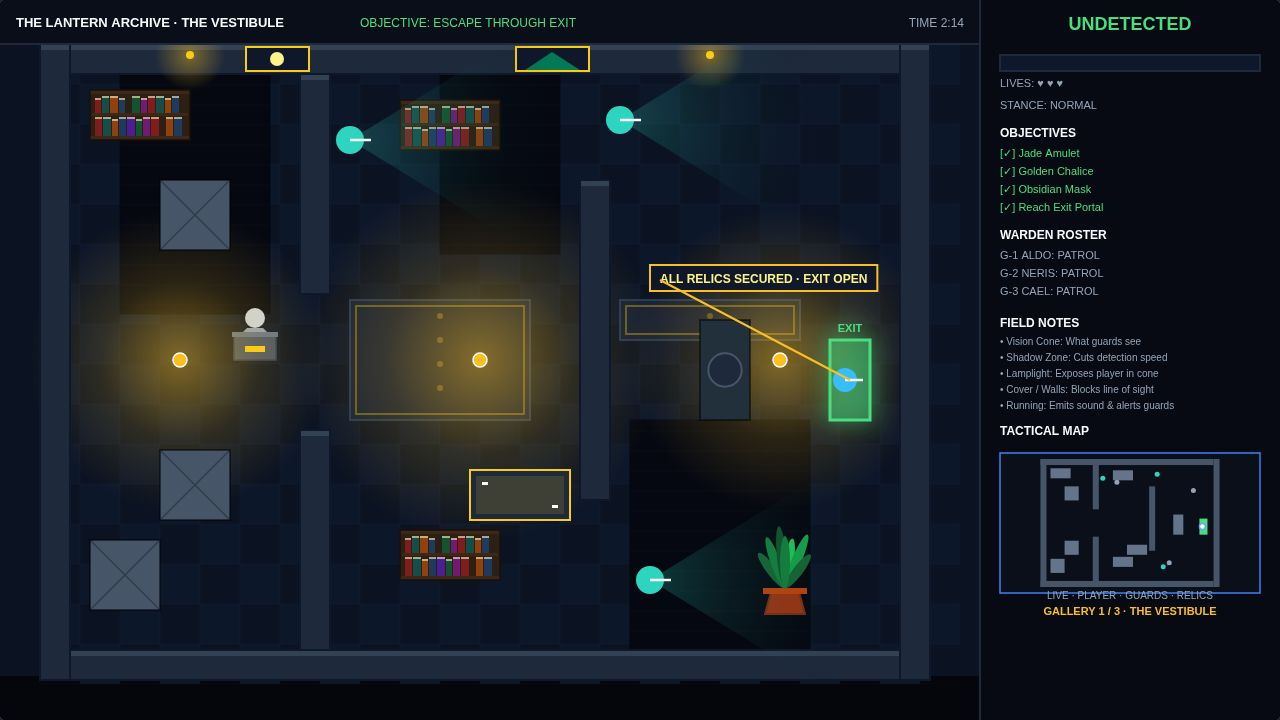
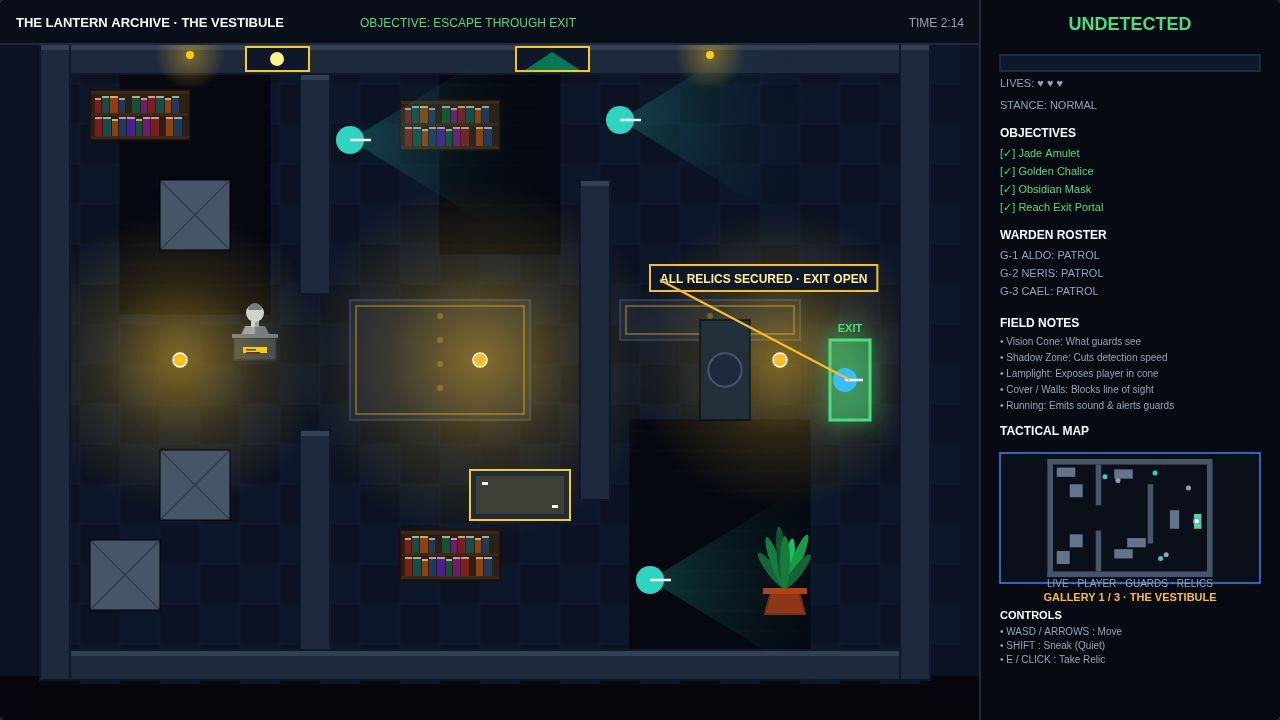
Round 6 visual fix: readable neoclassical bust statue, CONTROLS block fills side-panel bottom

Changed region(s): [[0.7812, 0.6417, 1.0, 0.9167], [0.1875, 0.4278, 0.2188, 0.5194]]

diff --git a/game/src/render.js b/game/src/render.js
@@ -98,46 +98,80 @@ export class Renderer {
       }
     });
     
-    // Decor / Museum Props (Enlarged Potted Plants & Statue Pedestal)
+    // Decor / Museum Props (Enlarged Potted Plants & Refined Neoclassical Bust Statue)
     if (lvl.decor) {
       lvl.decor.forEach(d => {
         this.ctx.save();
         if (d.type === 'statue') {
-          // Statue on a pedestal (Job 4)
+          // Refined Neoclassical Bust Statue on Pedestal (Ronde 6)
           const px = d.x + d.w / 2;
           const py = d.y + d.h;
           
-          // Plinth base
-          this.ctx.fillStyle = '#475569';
-          this.ctx.fillRect(d.x + 4, py - 24, d.w - 8, 24);
-          this.ctx.strokeStyle = '#334155';
+          // Pedestal base block
+          this.ctx.fillStyle = '#334155';
+          this.ctx.fillRect(d.x + 4, py - 22, d.w - 8, 22);
+          this.ctx.strokeStyle = '#1e293b';
           this.ctx.lineWidth = 1.5;
-          this.ctx.strokeRect(d.x + 4, py - 24, d.w - 8, 24);
+          this.ctx.strokeRect(d.x + 4, py - 22, d.w - 8, 22);
           
-          // Plinth cap
+          // Pedestal cap molding
           this.ctx.fillStyle = '#64748b';
-          this.ctx.fillRect(d.x + 2, py - 28, d.w - 4, 5);
+          this.ctx.fillRect(d.x + 2, py - 26, d.w - 4, 4);
           
-          // Gold plaque
+          // Gold identification plaque with engraved text lines
           this.ctx.fillStyle = '#facc15';
-          this.ctx.fillRect(px - 10, py - 14, 20, 6);
+          this.ctx.fillRect(px - 12, py - 13, 24, 6);
+          this.ctx.fillStyle = '#451a03';
+          this.ctx.fillRect(px - 9, py - 11, 10, 1.5);
+          this.ctx.fillRect(px - 9, py - 8, 14, 1.5);
           
-          // Statue bust / figure silhouette
-          this.ctx.fillStyle = '#cbd5e1';
+          // Neoclassical bust sculpture (shoulders, neck, head, highlights & shadows)
+          // Shoulders / Draped torso base
+          this.ctx.fillStyle = '#64748b';
           this.ctx.beginPath();
-          this.ctx.arc(px, py - 42, 10, 0, Math.PI * 2);
-          this.ctx.fill();
-          this.ctx.fillStyle = '#94a3b8';
-          this.ctx.beginPath();
-          this.ctx.moveTo(px - 12, py - 28);
-          this.ctx.lineTo(px + 12, py - 28);
-          this.ctx.lineTo(px + 8, py - 32);
-          this.ctx.lineTo(px - 8, py - 32);
+          this.ctx.moveTo(px - 14, py - 26);
+          this.ctx.lineTo(px + 14, py - 26);
+          this.ctx.lineTo(px + 10, py - 34);
+          this.ctx.lineTo(px - 10, py - 34);
           this.ctx.closePath();
           this.ctx.fill();
           
+          // Shoulders highlight and shadow
+          this.ctx.fillStyle = '#94a3b8';
+          this.ctx.beginPath();
+          this.ctx.moveTo(px - 13, py - 26);
+          this.ctx.lineTo(px, py - 26);
+          this.ctx.lineTo(px, py - 34);
+          this.ctx.lineTo(px - 9, py - 34);
+          this.ctx.closePath();
+          this.ctx.fill();
+          
+          // Neck column
+          this.ctx.fillStyle = '#cbd5e1';
+          this.ctx.fillRect(px - 4, py - 40, 8, 7);
+          this.ctx.fillStyle = '#94a3b8';
+          this.ctx.fillRect(px, py - 40, 4, 7);
+          
+          // Head (classical bust form with contour & highlight)
+          this.ctx.fillStyle = '#cbd5e1';
+          this.ctx.beginPath();
+          this.ctx.arc(px, py - 47, 9, 0, Math.PI * 2);
+          this.ctx.fill();
+          
+          // Head lighting / highlight (top-left)
+          this.ctx.fillStyle = '#f1f5f9';
+          this.ctx.beginPath();
+          this.ctx.arc(px - 2, py - 49, 6, Math.PI, Math.PI * 1.85);
+          this.ctx.fill();
+          
+          // Classical hair contour / crown ridge
+          this.ctx.fillStyle = '#64748b';
+          this.ctx.beginPath();
+          this.ctx.arc(px, py - 50, 7, Math.PI, Math.PI * 2);
+          this.ctx.fill();
+          
         } else {
-          // Enlarged Potted plant (~1.4x - Job 3)
+          // Enlarged Potted plant (~1.4x)
           const px = d.x + d.w / 2;
           const py = d.y + d.h;
           
@@ -248,24 +282,22 @@ export class Renderer {
       this.ctx.strokeRect(w.x, w.y, w.w, w.h);
     });
     
-    // Bolder, enlarged top-wall paintings & Sconces (Job 5)
+    // Bolder, enlarged top-wall paintings & Sconces
     this.ctx.save();
-    // Painting 1 (Moon portrait)
     this.ctx.fillStyle = '#facc15';
     this.ctx.fillRect(245, 46, 65, 26);
     this.ctx.fillStyle = '#0f172a';
     this.ctx.fillRect(247, 48, 61, 22);
-    this.ctx.fillStyle = '#fef08a'; // larger pale moon disc
+    this.ctx.fillStyle = '#fef08a';
     this.ctx.beginPath();
     this.ctx.arc(277, 59, 7, 0, Math.PI * 2);
     this.ctx.fill();
 
-    // Painting 2 (Mountain landscape with clearer ridge)
     this.ctx.fillStyle = '#facc15';
     this.ctx.fillRect(515, 46, 75, 26);
     this.ctx.fillStyle = '#0f172a';
     this.ctx.fillRect(517, 48, 71, 22);
-    this.ctx.fillStyle = '#047857'; // darker mountain silhouette
+    this.ctx.fillStyle = '#047857';
     this.ctx.beginPath();
     this.ctx.moveTo(525, 70);
     this.ctx.lineTo(552, 52);
@@ -603,7 +635,7 @@ export class Renderer {
     const mapBoxX = x + 20;
     const mapBoxY = curY;
     const mapBoxW = w - 40;
-    const mapBoxH = 140;
+    const mapBoxH = 130;
     
     this.ctx.fillStyle = '#0b0f19';
     this.ctx.fillRect(mapBoxX, mapBoxY, mapBoxW, mapBoxH);
@@ -676,16 +708,36 @@ export class Renderer {
     
     this.ctx.restore();
     
-    curY += mapBoxH + 6;
+    curY += mapBoxH + 4;
     this.ctx.fillStyle = CONFIG.COLORS.textMuted;
     this.ctx.font = '10px sans-serif';
     this.ctx.textAlign = 'center';
     this.ctx.fillText('LIVE · PLAYER · GUARDS · RELICS', mapBoxX + mapBoxW / 2, curY);
-    curY += 16;
+    curY += 14;
     
     this.ctx.fillStyle = CONFIG.COLORS.lamp;
     this.ctx.font = 'bold 11px sans-serif';
     this.ctx.fillText(`GALLERY ${world.level.id} / 3 · ${world.level.name.toUpperCase()}`, mapBoxX + mapBoxW / 2, curY);
+    curY += 18;
+    
+    // Bottom Side Panel: CONTROLS block (Ronde 6)
+    this.ctx.fillStyle = CONFIG.COLORS.text;
+    this.ctx.font = 'bold 11px sans-serif';
+    this.ctx.textAlign = 'left';
+    this.ctx.fillText('CONTROLS', x + 20, curY);
+    curY += 16;
+    
+    this.ctx.fillStyle = CONFIG.COLORS.textMuted;
+    this.ctx.font = '10px sans-serif';
+    const controlsList = [
+      '• WASD / ARROWS : Move',
+      '• SHIFT : Sneak (Quiet)',
+      '• E / CLICK : Take Relic'
+    ];
+    controlsList.forEach(c => {
+      this.ctx.fillText(c, x + 20, curY);
+      curY += 14;
+    });
     
     this.ctx.restore();
   }
@@ -717,7 +769,6 @@ export class Renderer {
     if (shotName === 'cover') {
       drawCallout('3 GALLERIES · 9 RELICS · ESCAPE UNSEEN', 640, 578, 640, 640, true);
     } else if (shotName === 'sneak') {
-      // Job 1: Shifted right to avoid top-left bookshelf (90..190, 90..140)
       drawCallout('HIDDEN BEHIND CRATE', 200, 220, 270, 150);
     } else if (shotName === 'alert') {
       drawCallout('WARDEN ALERTED · METER NEAR FULL', 500, 360, 480, 240);
